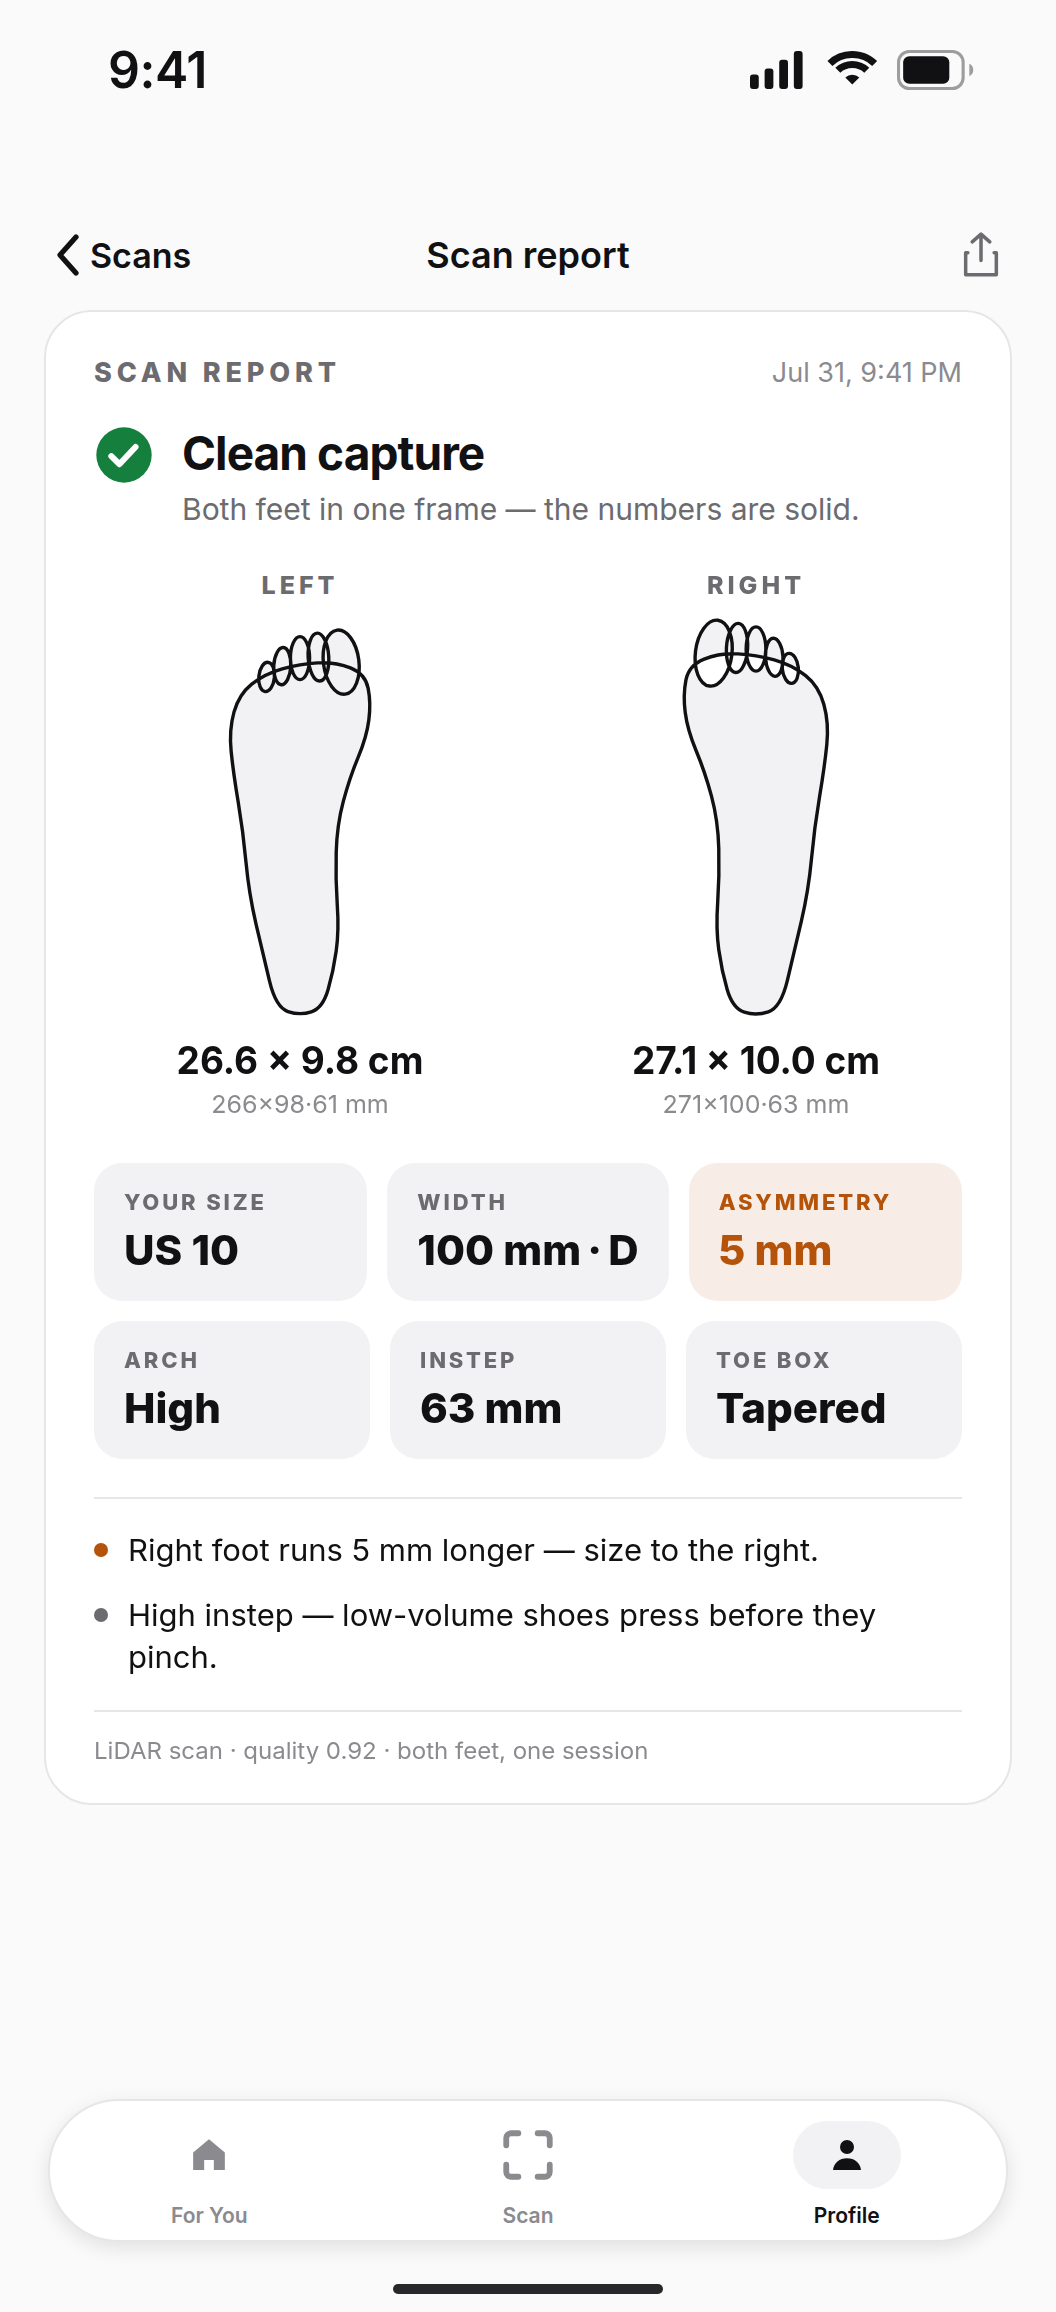
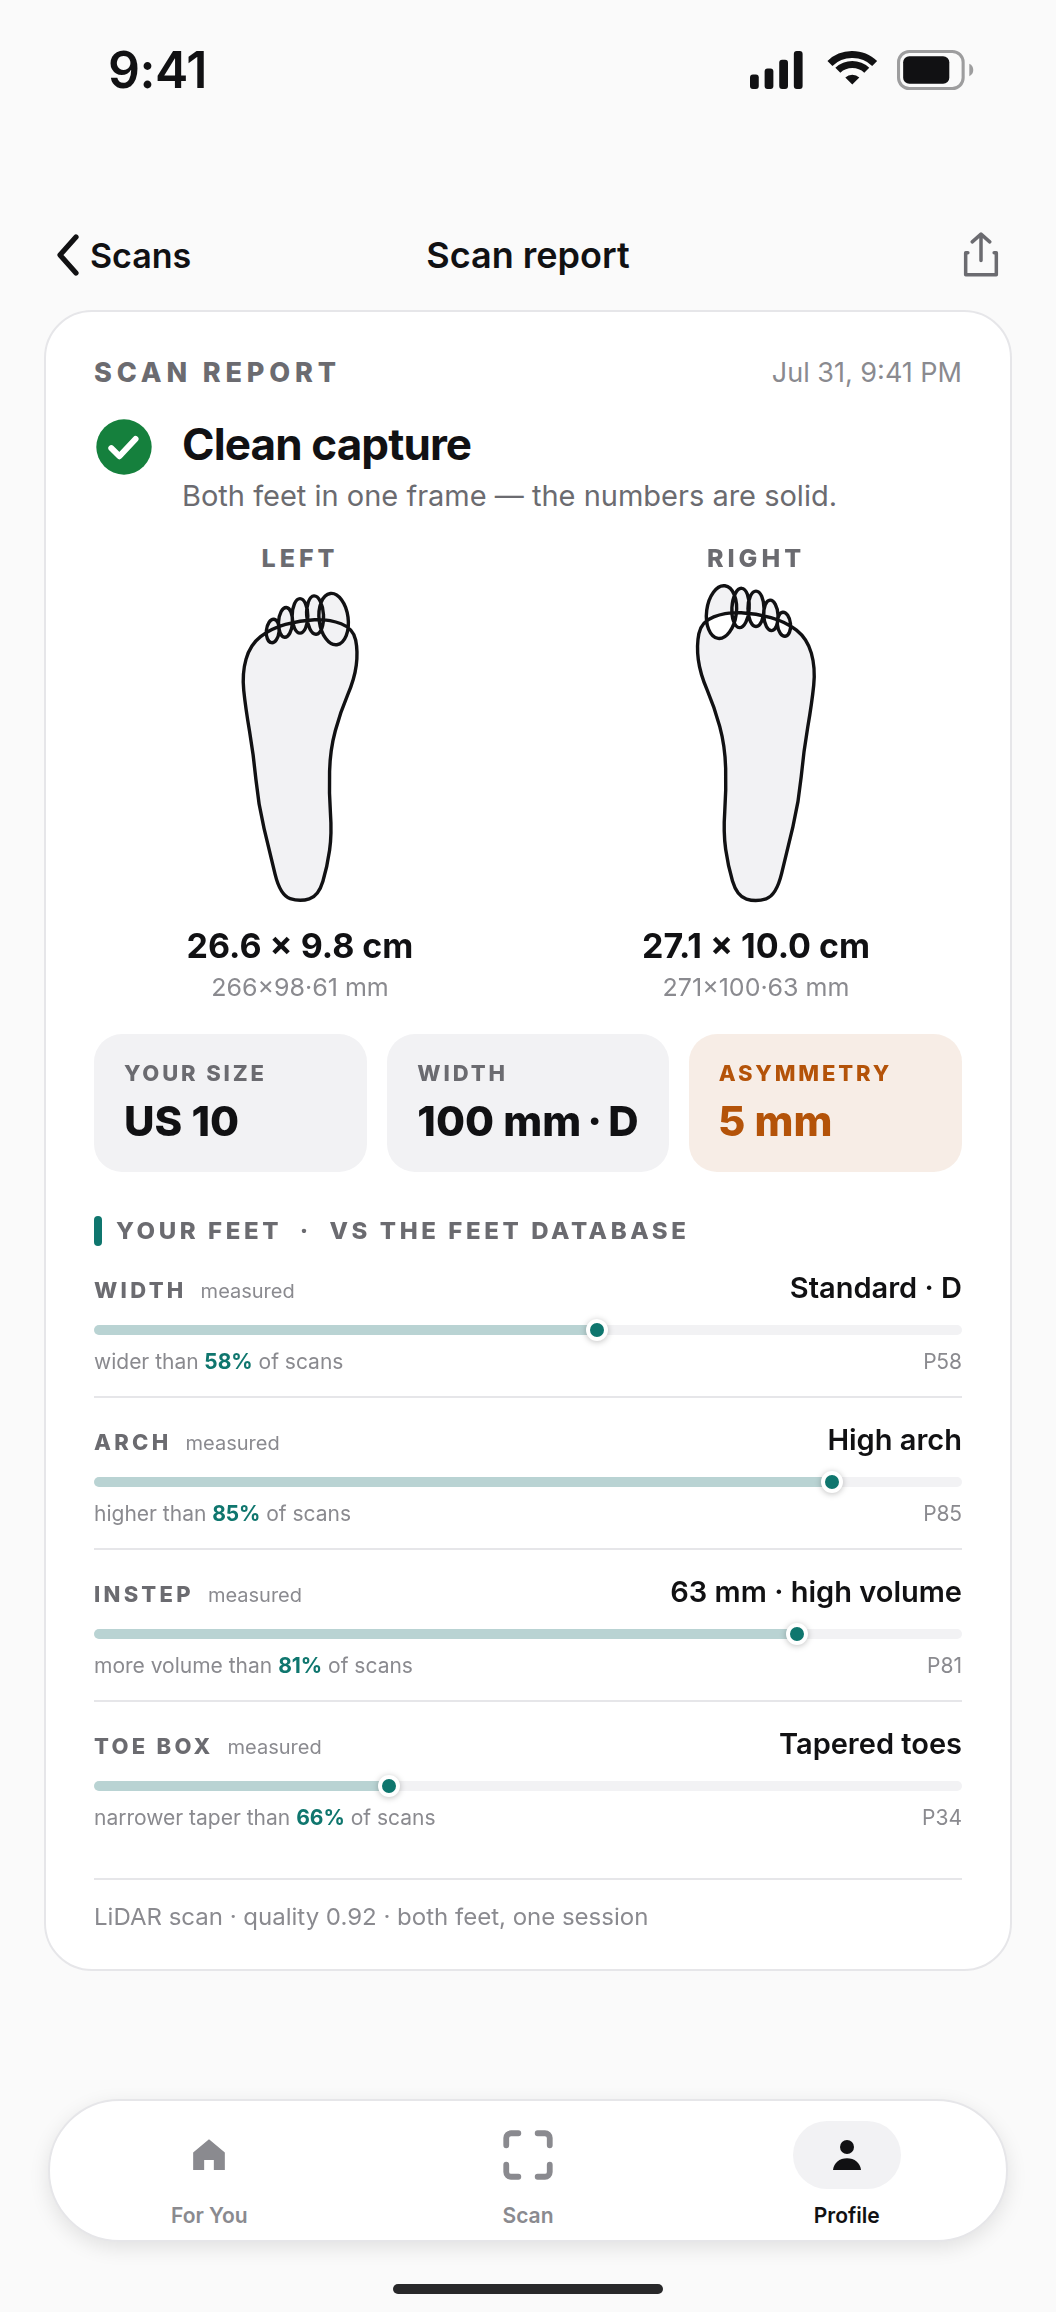
pins: feet-database percentile table on the scan report
Replaces the second tile row with the scan tab's real 'Your feet' block
(hairline rows, measured provenance, spectrum-teal section accent)
extended with population-position gauges against the shared feet
database: width P58, arch P85, instep P81, toe box P34, each with a
slider dot and a 'wider than N% of scans' caption. Percentiles stay
consistent with the tiles (100 mm · D at 271 mm reads standard) and the
high-instep story. Prompt 2 and the screenshot regenerated.

Claude-Session: https://claude.ai/code/session_01DF12MeCQsBsp8TmeobhWMm

diff --git a/pins/NANOBANANA.md b/pins/NANOBANANA.md
@@ -76,8 +76,11 @@ actual feet beats both.
 > as provided — do not redraw, restyle, retype, or "improve" any of it.
 > Every word, number, footprint outline, icon and layout must remain
 > pixel-identical to the attachment, including "26.6 × 9.8 cm",
-> "27.1 × 10.0 cm", the metric tiles ("US 10", "100 mm · D", "5 mm",
-> "High", "63 mm", "Tapered") and the toes-up foot outlines.
+> "27.1 × 10.0 cm", the tiles ("US 10", "100 mm · D", "5 mm"), the toes-up
+> foot outlines, and the whole "YOUR FEET · VS THE FEET DATABASE" table —
+> four gauge rows (Width, Arch, Instep, Toe box) with their teal slider
+> dots, percentile captions ("wider than 58% of scans"…) and P-values
+> (P58, P85, P81, P34) exactly as positioned.
 >
 > Typography on the post: one large white word, "Analyze", bold geometric
 > sans (like Inter ExtraBold), bottom-left, underlined, partially overlapping

diff --git a/pins/02-analyze/caption.md b/pins/02-analyze/caption.md
@@ -21,6 +21,8 @@ Scan → Analyze → Choose. This is step two.
 
 A phone on a dark studio backdrop showing a SoleFit scan report: a green
 "Clean capture" verdict, two traced toes-up foot outlines with measurements —
-left 26.6 by 9.8 cm, right 27.1 by 10 cm — and a metrics grid: size US 10,
-width 100 mm D, a 5 mm asymmetry flag, high arch, 63 mm instep, tapered toe
-box. The word "Analyze" is written large at the bottom left.
+left 26.6 by 9.8 cm, right 27.1 by 10 cm — tiles for size US 10, width
+100 mm D and a 5 mm asymmetry flag, then a "Your feet vs the feet database"
+table with percentile gauges: width standard-D at P58, high arch at P85,
+63 mm high-volume instep at P81, tapered toe box at P34. The word "Analyze"
+is written large at the bottom left.
